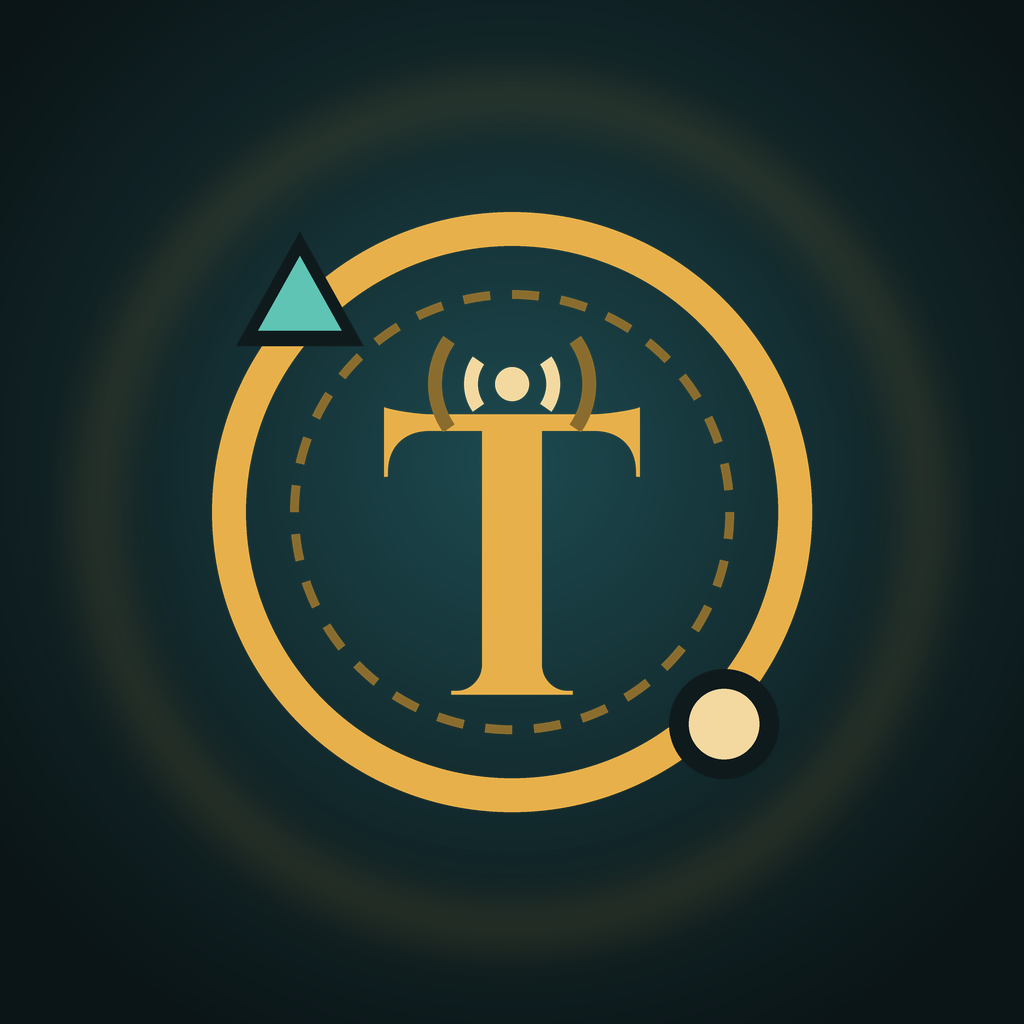
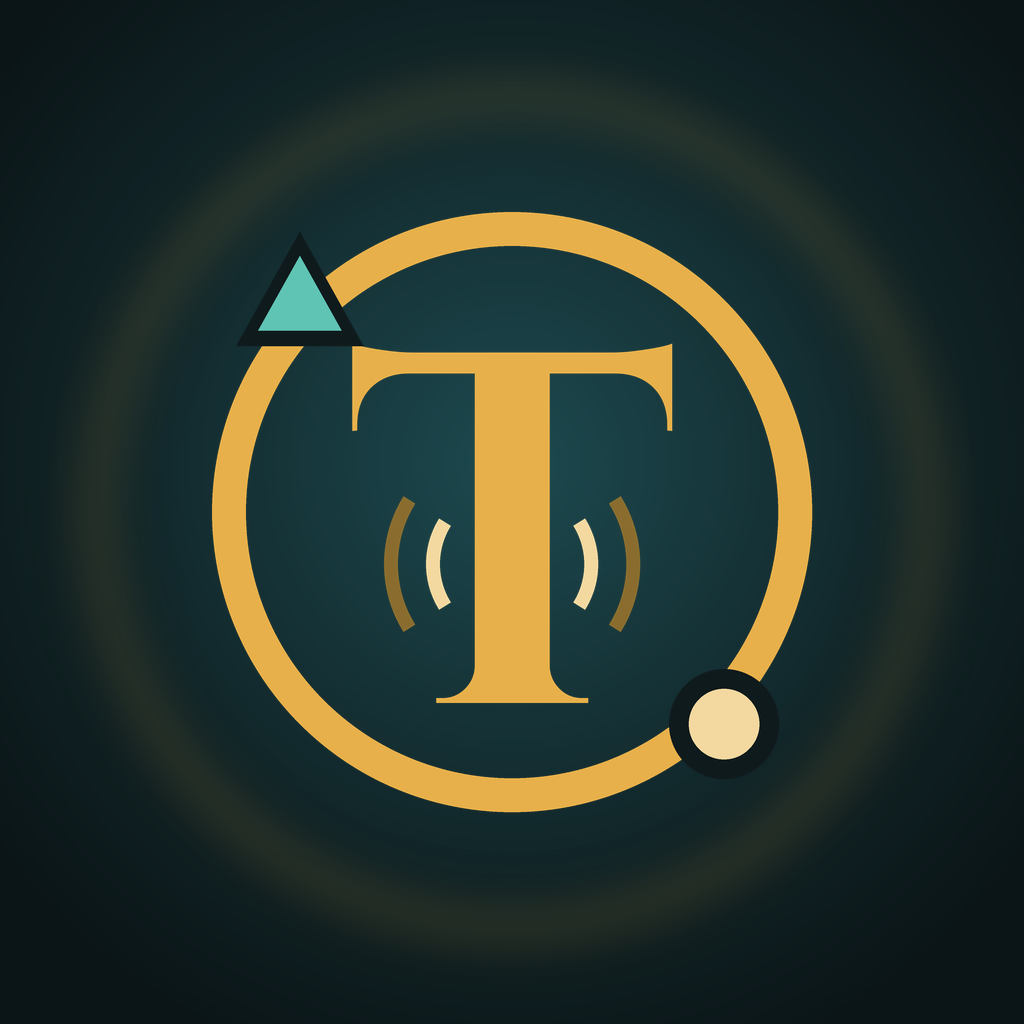
Ny ikon och startskärm i samma stil som Direct och Alif, tonad överkant på kartan
- Ikon: stort T i Cinzel i guldringen, som D:et i Direct, med signalvågor kring stammen
- Startskärm: cellnät med signaler i bakgrunden, guldglöd nertill, etikett
  med lärandesyfte och samma logga som ikonen
- Kartan börjar under statusraden med en tonad övergång från appens bakgrund

Claude-Session: https://claude.ai/code/session_011yx1BvLXK4zuBHmWUNLKF4

diff --git a/app/src/main/java/se/cellkarta/StartScreenView.kt b/app/src/main/java/se/cellkarta/StartScreenView.kt
@@ -76,6 +76,7 @@ class StartScreenView(context: Context, private val onDone: (StartScreenView) ->
     private val glow = Paint(Paint.ANTI_ALIAS_FLAG)
     private val path = Path()
     private val rect = RectF()
+    private val bounds = android.graphics.Rect()
     private val dash = DashPathEffect(floatArrayOf(5f, 4.2f), 0f)
 
     init {
@@ -159,42 +160,74 @@ class StartScreenView(context: Context, private val onDone: (StartScreenView) ->
         if (!reduce && !finishing) postInvalidateOnAnimation()
     }
 
+    private val glowBottom = Paint(Paint.ANTI_ALIAS_FLAG)
+
+    /** Grön glöd bakom loggan och en varm guldglöd längst ner, som i Direct och Alif. */
     private fun drawGlow(c: Canvas) {
         glow.shader = RadialGradient(
-            CX, CY, 320f,
-            intArrayOf(Color.argb(210, Color.red(TEAL), Color.green(TEAL), Color.blue(TEAL)), Color.argb(0, 11, 20, 22)),
+            CX, 278f, 330f,
+            intArrayOf(TEAL, Color.argb(0, Color.red(TEAL), Color.green(TEAL), Color.blue(TEAL))),
             floatArrayOf(0f, 1f), Shader.TileMode.CLAMP
         )
         c.drawRect(-W0, -H0, W0 * 2, H0 * 2, glow)
+        glowBottom.shader = RadialGradient(
+            CX, H0 + 17f, 260f,
+            intArrayOf(Color.argb(33, 232, 176, 74), Color.argb(0, 232, 176, 74)),
+            floatArrayOf(0f, 1f), Shader.TileMode.CLAMP
+        )
+        c.drawRect(-W0, -H0, W0 * 2, H0 * 2, glowBottom)
     }
 
-    /** Svag karta i bakgrunden: några gator och celler som blinkar till. */
-    private fun drawPattern(c: Canvas, t: Float) {
-        val fade = ent(t, 100f, 900f)
-        stroke.strokeWidth = 1f
-        stroke.tint(MINT, 0.10f * fade)
-        path.reset()
-        path.moveTo(0f, 150f); path.lineTo(120f, 172f); path.lineTo(390f, 128f)
-        path.moveTo(0f, 700f); path.lineTo(170f, 688f); path.lineTo(390f, 712f)
-        path.moveTo(40f, 0f); path.lineTo(64f, 844f)
-        path.moveTo(352f, 0f); path.lineTo(330f, 844f)
-        c.drawPath(path, stroke)
+    // Bakgrund: ett svagt nät av celler där signaler färdas mellan masterna.
+    private val nodes = arrayOf(
+        floatArrayOf(34f, 92f, 600f), floatArrayOf(118f, 58f, 0f), floatArrayOf(206f, 112f, 1200f),
+        floatArrayOf(300f, 66f, 300f), floatArrayOf(360f, 148f, 1800f), floatArrayOf(72f, 180f, 900f),
+        floatArrayOf(28f, 732f, 1500f), floatArrayOf(98f, 806f, 400f), floatArrayOf(192f, 760f, 2100f),
+        floatArrayOf(286f, 818f, 1000f), floatArrayOf(364f, 742f, 1700f),
+    )
+    private val edges = arrayOf(
+        intArrayOf(0, 1), intArrayOf(1, 2), intArrayOf(2, 3), intArrayOf(3, 4), intArrayOf(0, 5), intArrayOf(5, 2),
+        intArrayOf(6, 7), intArrayOf(7, 8), intArrayOf(8, 9), intArrayOf(9, 10), intArrayOf(6, 8), intArrayOf(8, 10),
+    )
+    // Signaler: från nod, till nod, period, fördröjning
+    private val signals = arrayOf(
+        floatArrayOf(5f, 2f, 3400f, 0f), floatArrayOf(10f, 8f, 4200f, 1100f), floatArrayOf(6f, 8f, 3800f, 2000f),
+        floatArrayOf(1f, 3f, 4600f, 700f),
+    )
 
-        val cells = arrayOf(
-            floatArrayOf(22f, 214f, 600f), floatArrayOf(372f, 196f, 1500f), floatArrayOf(24f, 420f, 300f),
-            floatArrayOf(366f, 440f, 1100f), floatArrayOf(28f, 612f, 1200f), floatArrayOf(364f, 620f, 300f),
-        )
-        stroke.strokeWidth = 1.2f
-        cells.forEachIndexed { i, (x, y, d) ->
-            val a = fade * lerp(0.2f, 0.75f, ping(t, 3600f, d))
-            stroke.tint(MINT, a)
-            if (i % 3 == 1) {
-                path.reset()
-                path.moveTo(x, y - 6f); path.lineTo(x + 6f, y + 4.5f); path.lineTo(x - 6f, y + 4.5f); path.close()
-                c.drawPath(path, stroke)
+    private fun drawPattern(c: Canvas, t: Float) {
+        val fade = ent(t, 100f, 800f)
+        stroke.strokeWidth = 1f
+        stroke.tint(MINT, 0.16f * fade)
+        for ((i, j) in edges) c.drawLine(nodes[i][0], nodes[i][1], nodes[j][0], nodes[j][1], stroke)
+
+        nodes.forEachIndexed { i, (x, y, d) ->
+            val a = fade * lerp(0.25f, 0.85f, ping(t, 3200f, d))
+            if (i == 2 || i == 8) {
+                // Två av noderna är master: en liten ring som sänder
+                stroke.strokeWidth = 1.2f
+                stroke.tint(MINT, a)
+                c.drawCircle(x, y, 4.5f, stroke)
+                fill.tint(MINT, a)
+                c.drawCircle(x, y, 1.6f, fill)
             } else {
-                c.drawCircle(x, y, 5f, stroke)
+                fill.tint(MINT, a)
+                c.drawCircle(x, y, 2.3f, fill)
             }
+        }
+
+        if (reduce) return
+        for ((from, to, period, delay) in signals) {
+            val v = loop(t, period, delay)
+            val a = when {
+                v < 0.08f -> v / 0.08f
+                v > 0.92f -> (1f - v) / 0.08f
+                else -> 1f
+            }
+            val p = nodes[from.toInt()]
+            val q = nodes[to.toInt()]
+            fill.tint(GOLD, a * fade)
+            c.drawCircle(lerp(p[0], q[0], v), lerp(p[1], q[1], v), 3f, fill)
         }
     }
 
@@ -218,50 +251,40 @@ class StartScreenView(context: Context, private val onDone: (StartScreenView) ->
         val sc = lerp(0.82f, 1f, pop)
         c.scale(sc, sc, CX, CY)
 
-        // Streckad inre cirkel som långsamt roterar, som en radar
-        c.save()
-        c.rotate(loop(t, 40_000f) * 360f, CX, CY)
-        stroke.strokeWidth = 1.2f
-        stroke.pathEffect = dash
-        stroke.tint(GOLD_DIM, inner * pop)
-        c.drawCircle(CX, CY, 42f, stroke)
-        stroke.pathEffect = null
-        c.restore()
-
         // Guldringen ritar upp sig själv
         stroke.strokeWidth = 3.5f
         stroke.tint(GOLD, pop)
         rect.set(CX - 56f, CY - 56f, CX + 56f, CY + 56f)
         c.drawArc(rect, -90f, 360f * draw, false, stroke)
 
-        // T i Cinzel, med ett mjukt guldsken
+        // Stort T i Cinzel med ett mjukt guldsken, som i ikonen
         val dy = lerp(8f, 0f, inner)
         text.typeface = cinzel
-        text.textSize = 60f
+        text.textSize = 84f
         text.letterSpacing = 0f
+        text.getTextBounds("T", 0, 1, bounds)
+        val baseline = CY + 7.5f + dy - bounds.exactCenterY()
         text.tint(GOLD, inner)
         text.setShadowLayer(14f, 0f, 0f, Color.argb((90 * inner).toInt(), 232, 176, 74))
-        c.drawText("T", CX, CY + 30f + dy, text)
+        c.drawText("T", CX, baseline, text)
         text.clearShadowLayer()
 
-        // Mastens topp sänder
-        val tipY = CY - 28f + dy
-        fill.tint(GOLD_PALE, inner)
-        c.drawCircle(CX, tipY, 3.2f, fill)
-        stroke.strokeWidth = 2.2f
-        for ((r, d) in listOf(9f to 0f, 16f to 350f)) {
-            val a = inner * lerp(0.25f, 1f, ping(t, 1600f, d))
-            stroke.tint(if (r < 12f) GOLD_PALE else GOLD, a)
-            rect.set(CX - r, tipY - r, CX + r, tipY + r)
-            c.drawArc(rect, 145f, 70f, false, stroke)
-            c.drawArc(rect, -35f, 70f, false, stroke)
+        // Signalvågor på båda sidor om stammen: masten sänder
+        val my = CY + 9.7f + dy
+        stroke.strokeWidth = 2.6f
+        for ((r, d) in listOf(16f to 0f, 24f to 350f)) {
+            val a = inner * lerp(0.3f, 1f, ping(t, 1600f, d))
+            stroke.tint(if (r < 20f) GOLD_PALE else GOLD_DIM, a)
+            rect.set(CX - r, my - r, CX + r, my + r)
+            c.drawArc(rect, 148f, 64f, false, stroke)
+            c.drawArc(rect, -32f, 64f, false, stroke)
         }
 
-        // Två punkter som kretsar på ringen: en mint-triangel och en ljusguld punkt
-        c.save()
-        c.rotate(loop(t, 9000f) * 360f - 45f, CX, CY)
-        val ax = CX
-        val ay = CY - 56f
+        // Två punkter som kretsar på ringen: en mint-triangel och en ljusguld punkt.
+        // Triangeln står alltid upprätt medan den kretsar.
+        val ang = Math.toRadians((loop(t, 9000f) * 360f - 45f).toDouble())
+        val ax = CX + 56f * kotlin.math.sin(ang).toFloat()
+        val ay = CY - 56f * kotlin.math.cos(ang).toFloat()
         fill.tint(MINT, 0.18f * inner)
         c.drawCircle(ax, ay, 12f, fill)
         fill.tint(BG, inner)
@@ -273,14 +296,14 @@ class StartScreenView(context: Context, private val onDone: (StartScreenView) ->
         path.moveTo(ax, ay - 6f); path.lineTo(ax + 5.6f, ay + 4.2f); path.lineTo(ax - 5.6f, ay + 4.2f); path.close()
         c.drawPath(path, fill)
 
-        val by = CY + 56f
+        val bx = 2 * CX - ax
+        val by = 2 * CY - ay
         fill.tint(GOLD_PALE, 0.18f * inner)
-        c.drawCircle(ax, by, 12f, fill)
+        c.drawCircle(bx, by, 12f, fill)
         fill.tint(BG, inner)
-        c.drawCircle(ax, by, 7.5f, fill)
+        c.drawCircle(bx, by, 7.5f, fill)
         fill.tint(GOLD_PALE, inner)
-        c.drawCircle(ax, by, 5f, fill)
-        c.restore()
+        c.drawCircle(bx, by, 5f, fill)
 
         c.restore()
     }
@@ -421,17 +444,39 @@ class StartScreenView(context: Context, private val onDone: (StartScreenView) ->
         c.drawCircle(x, y + 7f + lift, 1.6f, fill)
     }
 
+    /** Etikett under funktionerna, som "End-to-end encrypted" i Direct, och utvecklaren längst ner. */
     private fun drawFooter(c: Canvas, t: Float) {
-        val v = ent(t, 1400f, 800f)
-        text.typeface = sansMedium
-        text.textSize = 11f
-        text.letterSpacing = 0.02f
-        text.tint(DIM, v)
-        c.drawText(developer, CX, 752f, text)
+        val v = ent(t, 1500f, 800f)
+
         text.typeface = sansBold
+        text.textSize = 10f
+        text.letterSpacing = 0.22f
+        val w = text.measureText(learning)
+        val iconW = 14f
+        val left = CX - (w + iconW + 8f) / 2f
+
+        // Liten uppslagen bok
+        stroke.strokeWidth = 1.5f
+        stroke.tint(DIM, v)
+        path.reset()
+        val bx = left
+        val by = 668f
+        path.moveTo(bx + 7f, by - 4f)
+        path.quadTo(bx + 3.5f, by - 6f, bx, by - 5f); path.lineTo(bx, by + 5f)
+        path.quadTo(bx + 3.5f, by + 4f, bx + 7f, by + 6f)
+        path.quadTo(bx + 10.5f, by + 4f, bx + 14f, by + 5f); path.lineTo(bx + 14f, by - 5f)
+        path.quadTo(bx + 10.5f, by - 6f, bx + 7f, by - 4f); path.lineTo(bx + 7f, by + 6f)
+        c.drawPath(path, stroke)
+
+        text.textAlign = Paint.Align.LEFT
+        text.tint(DIM, v)
+        c.drawText(learning, left + iconW + 8f, by + 3.6f, text)
+        text.textAlign = Paint.Align.CENTER
+
+        text.typeface = sansMedium
         text.textSize = 10.5f
-        text.letterSpacing = 0.12f
-        text.tint(MINT, v)
-        c.drawText(learning, CX + 0.6f, 772f, text)
+        text.letterSpacing = 0.04f
+        text.tint(DIM, v * 0.85f)
+        c.drawText(developer, CX, 696f, text)
     }
 }

diff --git a/app/src/main/java/se/cellkarta/MainActivity.kt b/app/src/main/java/se/cellkarta/MainActivity.kt
@@ -260,7 +260,6 @@ class MainActivity : BaseActivity() {
         val gearTop = (gear.layoutParams as MarginLayoutParams).topMargin
         val gearEnd = (gear.layoutParams as MarginLayoutParams).rightMargin
         val scrim = findViewById<View>(R.id.topScrim)
-        val scrimHeight = scrim.layoutParams.height
 
         ViewCompat.setOnApplyWindowInsetsListener(findViewById(R.id.root)) { _, insets ->
             val bars = insets.getInsets(WindowInsetsCompat.Type.systemBars() or WindowInsetsCompat.Type.displayCutout())
@@ -273,7 +272,10 @@ class MainActivity : BaseActivity() {
                 topMargin = gearTop + bars.top
                 rightMargin = gearEnd + bars.right
             }
-            scrim.updateLayoutParams { height = scrimHeight + bars.top }
+            // Kartan börjar under statusraden. Där ovanför syns appens mörka bakgrund,
+            // och en tonad övergång leder ner i kartan.
+            map.updateLayoutParams<MarginLayoutParams> { topMargin = bars.top }
+            scrim.updateLayoutParams<MarginLayoutParams> { topMargin = bars.top }
             insets
         }
     }

diff --git a/scripts/make-icons.py b/scripts/make-icons.py
@@ -1,6 +1,6 @@
 # Ritar Trace-ikonerna i samma stil som Direct, Alif och USB (kräver Pillow och numpy).
 #   python3 scripts/make-icons.py
-# Mörk petroleumgrön bakgrund, guldring med sken, ett T i Cinzel som en mast med signalvågor,
+# Mörk petroleumgrön bakgrund, guldring med sken, ett stort T i Cinzel med signalvågor kring stammen,
 # en mint-triangel och en ljusguld punkt på ringen.
 import math, os
 import numpy as np
@@ -45,19 +45,16 @@ def mark(size, k, mono=False):
     gd = (255, 255, 255, 140) if mono else GOLD_DIM + (255,)
     gp = (255, 255, 255, 220) if mono else GOLD_PALE + (255,)
 
-    # Ring och en streckad inre cirkel, som en radar
+    # Ring och ett stort T i Cinzel, som D:et i Direct
     d.ellipse([c - R, c - R, c + R, c + R], outline=g, width=int(34 * u))
-    dashed_circle(d, c, c, R * 0.74, gd, int(9 * u))
+    font = ImageFont.truetype(CINZEL, int(500 * u))
+    d.text((c, c + 40 * u), 'T', font=font, fill=g, anchor='mm')
 
-    # T i Cinzel, som en mast, med en sändande punkt i toppen
-    font = ImageFont.truetype(CINZEL, int(400 * u))
-    d.text((c, c + 62 * u), 'T', font=font, fill=g, anchor='mm')
-    tip = (c, c - 128 * u)
-    tr = 17 * u
-    d.ellipse([tip[0] - tr, tip[1] - tr, tip[0] + tr, tip[1] + tr], fill=gp)
-    for r, col in ((48 * u, gp), (84 * u, gd)):
-        arc(d, tip, r, 145, 215, col, int(14 * u))
-        arc(d, tip, r, -35, 35, col, int(14 * u))
+    # Signalvågor på båda sidor om stammen: T:et blir en sändande mast
+    mid = (c, c + 52 * u)
+    for r, col in ((86 * u, gp), (128 * u, gd)):
+        arc(d, mid, r, 148, 212, col, int(14 * u))
+        arc(d, mid, r, -32, 32, col, int(14 * u))
 
     # Accenter på ringen: mint-triangel uppe till vänster, ljusguld punkt nere till höger
     o = R * math.cos(math.pi / 4)
